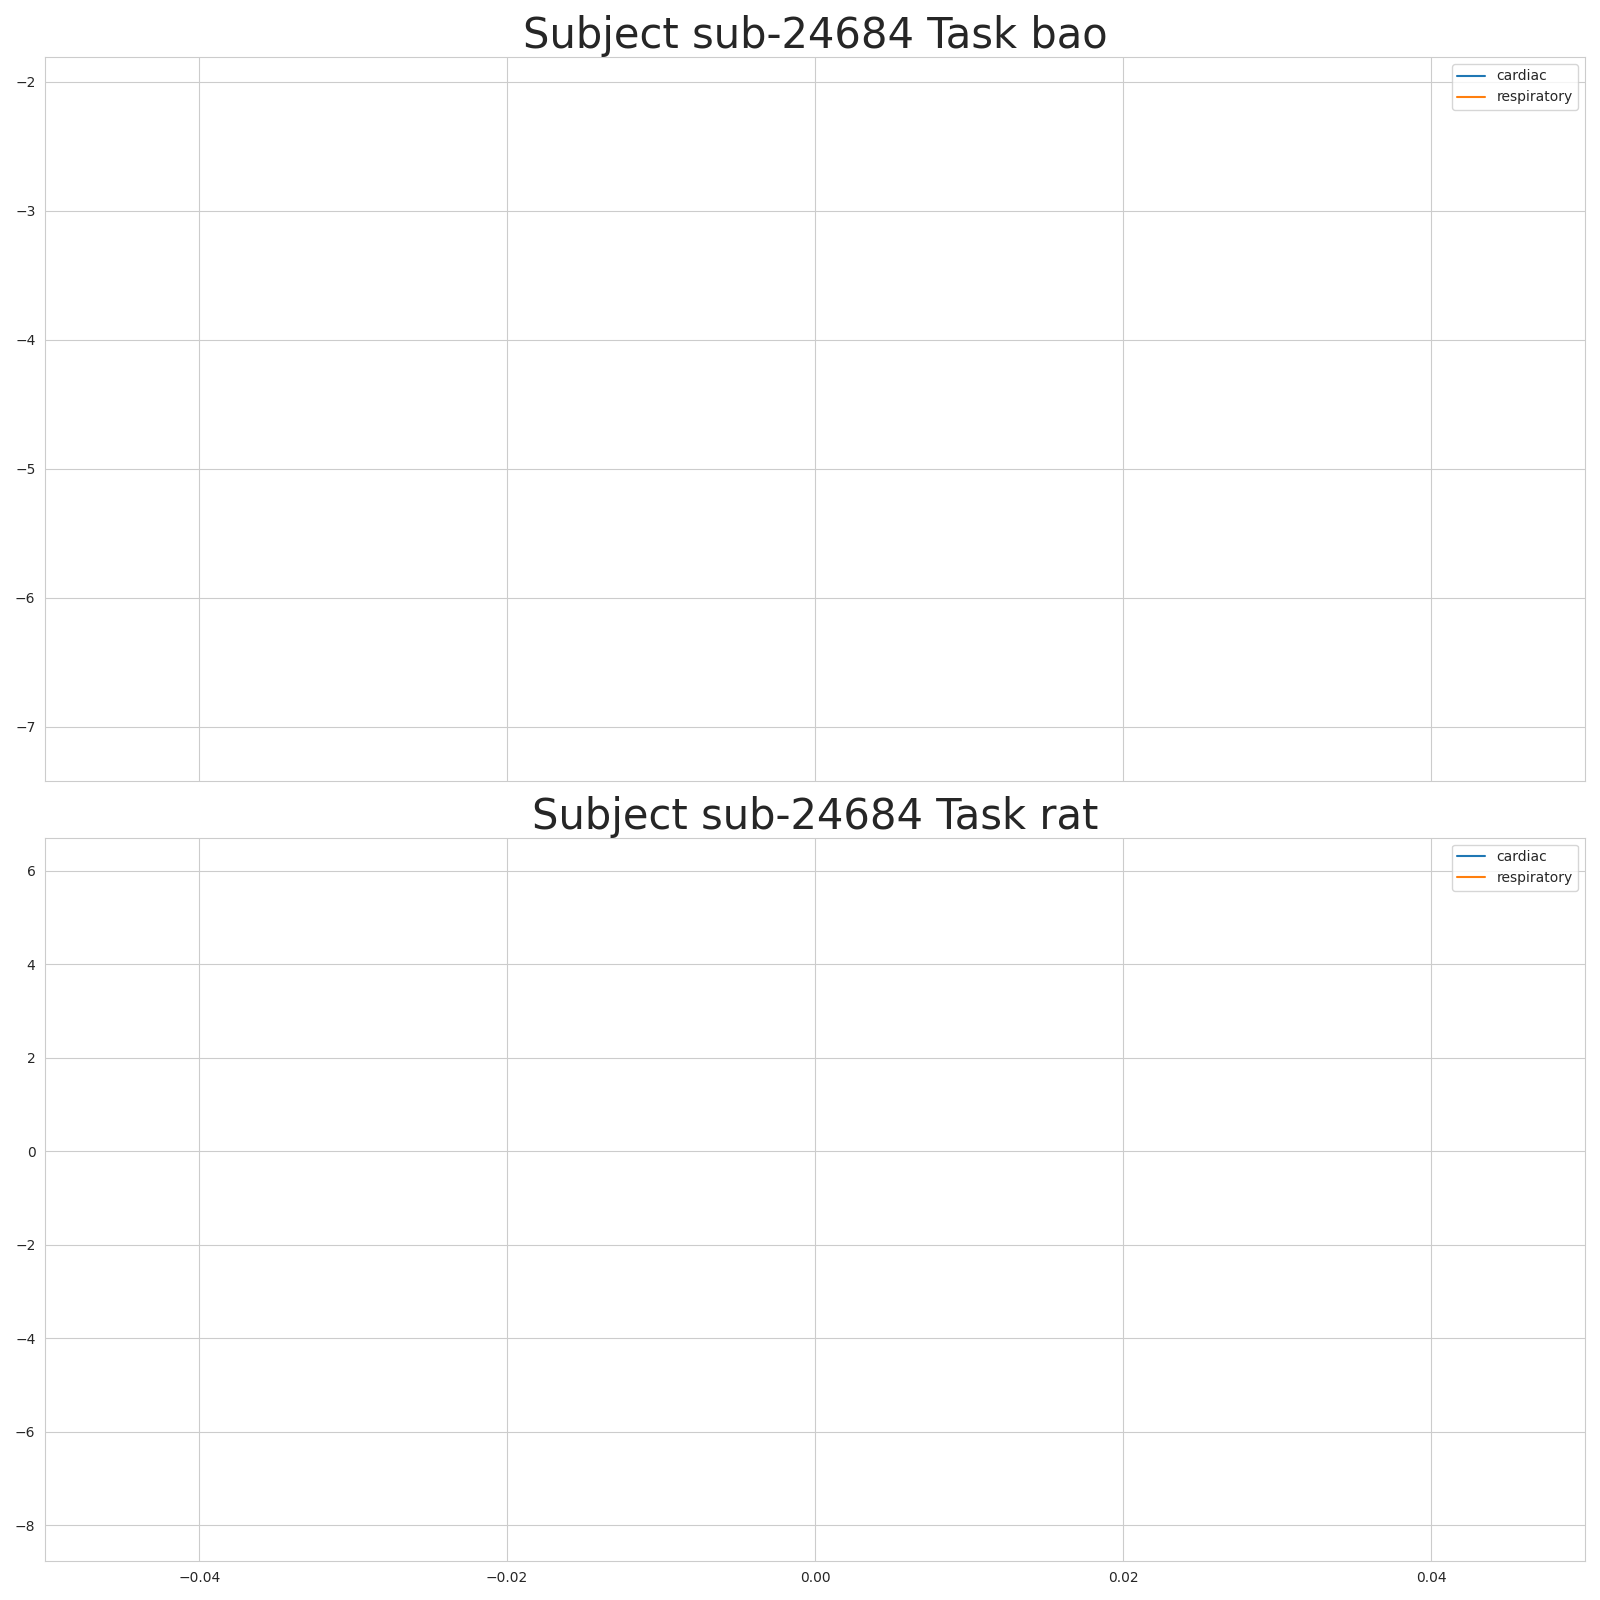
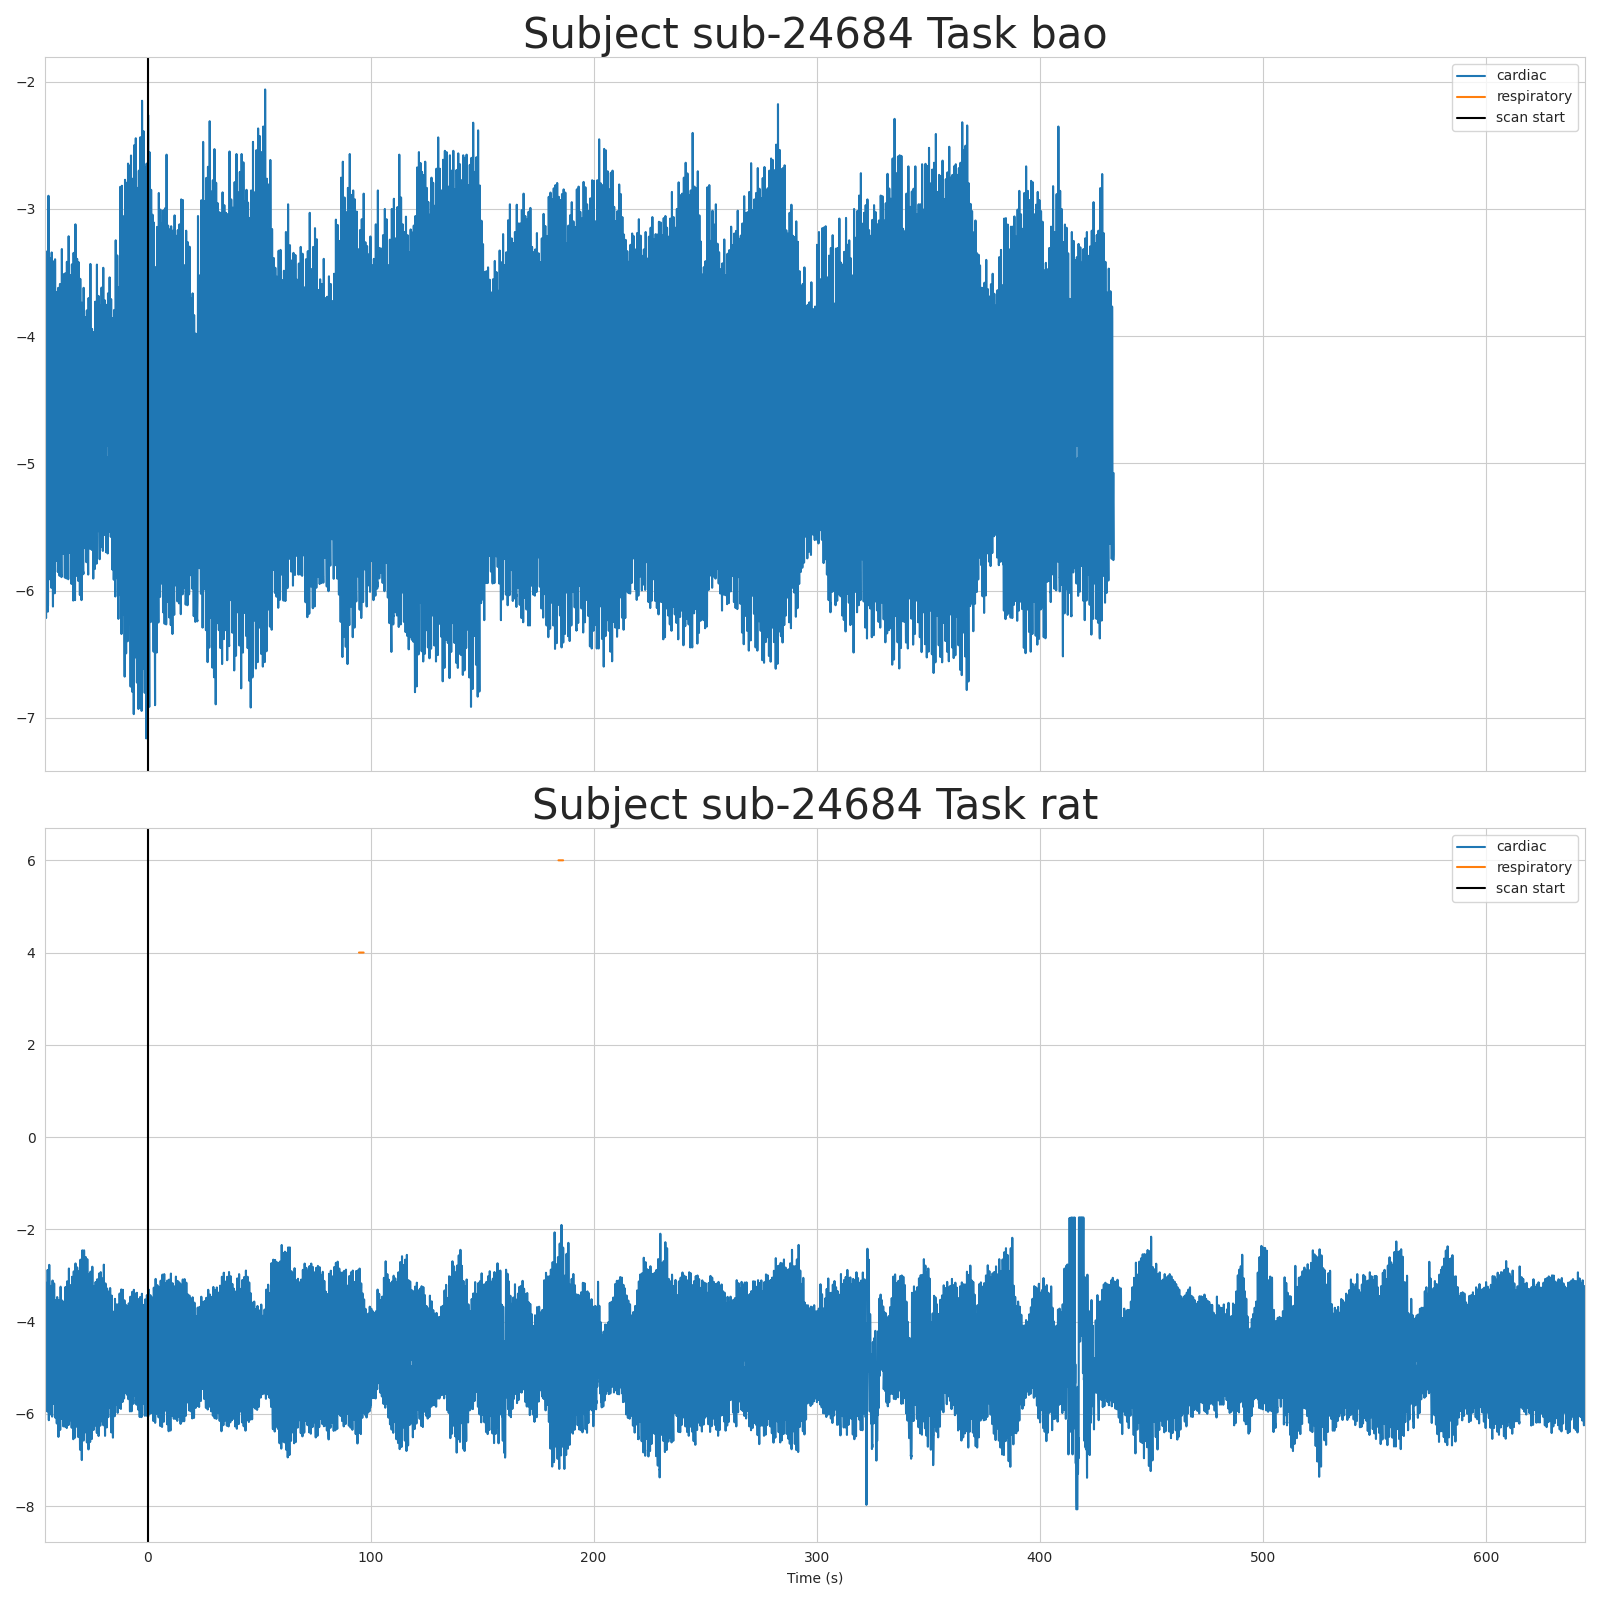
Update physio figures.

diff --git a/qc/plot_physio.py b/qc/plot_physio.py
@@ -23,7 +23,7 @@ def plot_physio(cardiac_files, subject):
 
     fig, axes = plt.subplots(figsize=(16, 16), nrows=len(cardiac_files), sharex=True)
 
-    max_time = 0
+    min_time, max_time = 0, 0
     for i, cardiac_file in enumerate(cardiac_files):
         task = cardiac_file.split("task-")[1].split("_")[0]
         respiratory_file = cardiac_file.replace("cardiac_", "respiratory_")
@@ -32,7 +32,7 @@ def plot_physio(cardiac_files, subject):
 
         cardiac_data = np.loadtxt(cardiac_file)
         respiratory_data = np.loadtxt(respiratory_file)
-        print(cardiac_data.shape)
+
         with open(cardiac_json, "r") as fo:
             cardiac_metadata = json.load(fo)
 
@@ -43,25 +43,30 @@ def plot_physio(cardiac_files, subject):
         respiratory_fs = respiratory_metadata["SamplingFrequency"]
         title = f"Subject {subject} Task {task}"
         print(title)
-        print(cardiac_metadata["StartTime"])
-        print(respiratory_metadata["StartTime"])
-        cardiac_time = (np.arange(0, cardiac_data.size) / cardiac_fs) - cardiac_metadata[
+        cardiac_time = (np.arange(0, cardiac_data.size) / cardiac_fs) + cardiac_metadata[
             "StartTime"
         ]
+        cardiac_data = (cardiac_data - np.nanmean(cardiac_data)) / np.nanstd(cardiac_data)
+        axes[i].plot(cardiac_time, cardiac_data - 5, label="cardiac")
+        max_time = max(max(cardiac_time), max_time)
+        min_time = min(min(cardiac_time), min_time)
+
         respiratory_time = (
             np.arange(0, respiratory_data.size) / respiratory_fs
-        ) - respiratory_metadata["StartTime"]
-        cardiac_data = (cardiac_data - np.nanmean(cardiac_data)) / np.nanstd(cardiac_data)
+        ) + respiratory_metadata["StartTime"]
         respiratory_data = (respiratory_data - np.nanmean(respiratory_data)) / np.nanstd(
             respiratory_data
         )
-        max_time = max(max(respiratory_time), max_time)
-        axes[i].plot(cardiac_time, cardiac_data - 5, label="cardiac")
         axes[i].plot(respiratory_time, respiratory_data + 5, label="respiratory")
+        axes[i].axvline(0, label="scan start", color="black")
+
+        max_time = max(max(respiratory_time), max_time)
+        min_time = min(min(respiratory_time), min_time)
         axes[i].legend()
         axes[i].set_title(title, fontsize=30)
 
-    axes[i].set_xlim(0, max_time)
+    axes[i].set_xlim(min_time, max_time)
+    axes[i].set_xlabel("Time (s)")
 
     fig.tight_layout()
     fig.savefig(f"../figures/{subject}_physio.png")
